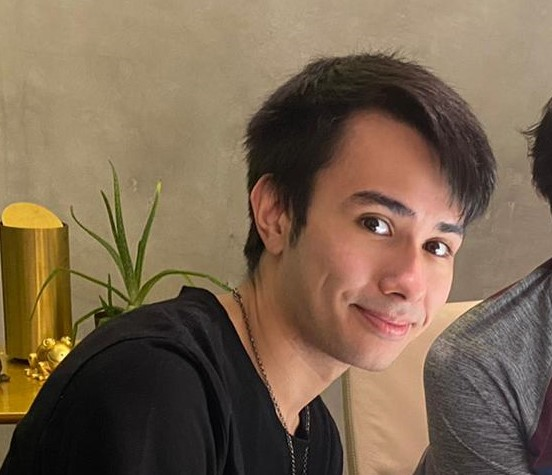
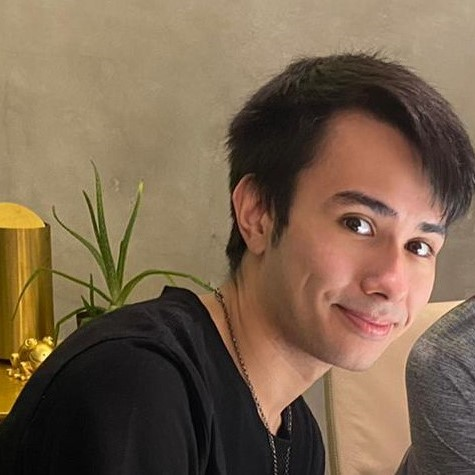
updated pfp and removed awards

diff --git a/index.html b/index.html
@@ -32,7 +32,6 @@
                     <li class="nav-item"><a class="nav-link js-scroll-trigger" href="#education">Education</a></li>
                     <li class="nav-item"><a class="nav-link js-scroll-trigger" href="#skills">Skills</a></li>
                     <li class="nav-item"><a class="nav-link js-scroll-trigger" href="#interests">Interests</a></li>
-                    <li class="nav-item"><a class="nav-link js-scroll-trigger" href="#awards">Awards</a></li>
                 </ul>
             </div>
         </nav>
@@ -152,10 +151,6 @@
             </section>
             <hr class="m-0" />
         
-
-
-
-            
         
             <!-- Education-->
         
@@ -247,8 +242,8 @@
             </section>
             <hr class="m-0" />
             <!-- links to other hobbies-->
-
-            <section class="resume-section" id="awards">
+            
+            <!-- <section class="resume-section" id="awards">
                 <div class="resume-section-content">
                     <h2 class="mb-5">Awards & Certifications</h2>
                     <ul class="fa-ul mb-0">
@@ -292,7 +287,8 @@
                         </li>
                     </ul>
                 </div>
-            </section>
+            </section> -->
+            
         </div>
         <!-- Bootstrap core JS-->
         <script src="https://cdn.jsdelivr.net/npm/bootstrap@5.1.3/dist/js/bootstrap.bundle.min.js"></script>
